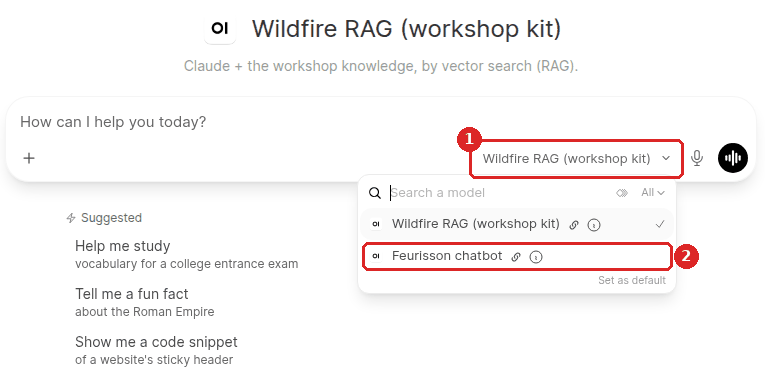
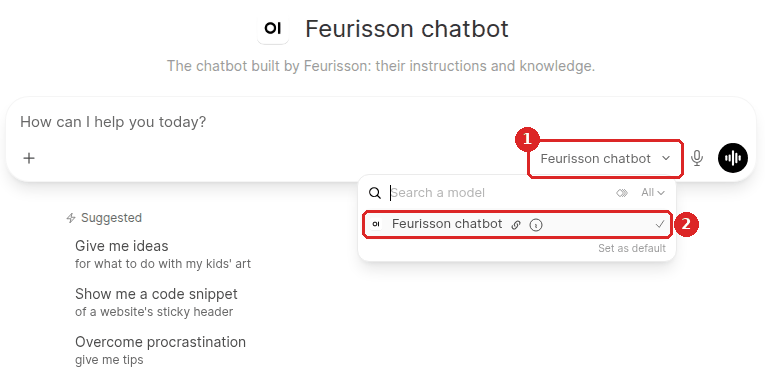
Atelier 1 : page et capture sans « Wildfire RAG »

diff --git a/README.md b/README.md
@@ -229,7 +229,7 @@ so that it is ready when you need it.
 2. **Do not wait for it.** Go on with Part 2 in your first terminal. When it is done, the second terminal shows:
 
    ```
-   Open WebUI is ready, with the model "Wildfire RAG (workshop kit)".
+   Open WebUI is ready.
    Open it: https://…-3000.app.github.dev
    ```
 
@@ -812,8 +812,7 @@ search it). Your chatbot's *Knowledge* box is still empty: this repository has n
 Open WebUI too, your chatbot has nothing to answer question 1 with. Giving it knowledge, and
 choosing who picks the pieces it reads, is the topic of workshops 2 and 3.
 
-> ℹ **Note.** Open WebUI calls each chatbot a model. So you also see a model called "Wildfire RAG
-> (workshop kit)": it is for workshop 2, and it has no documents yet. Choose your own chatbot.
+> ℹ **Note.** Open WebUI calls each chatbot a model. Here, your chatbot is the only one in the list.
 
 ### Step 2 - Save your work
 
